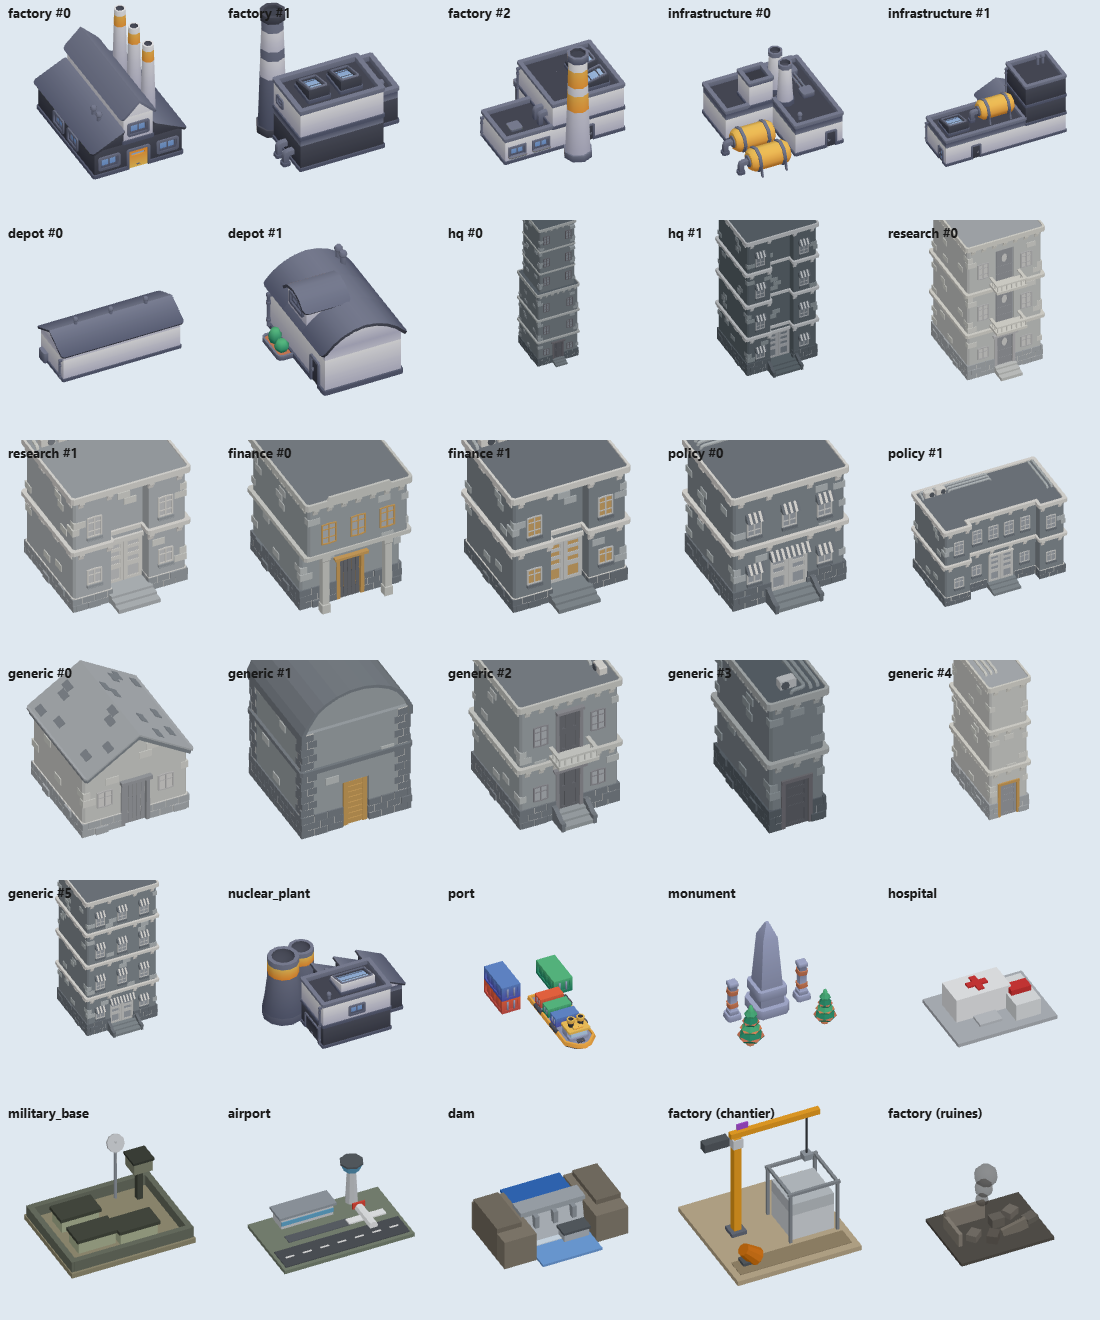
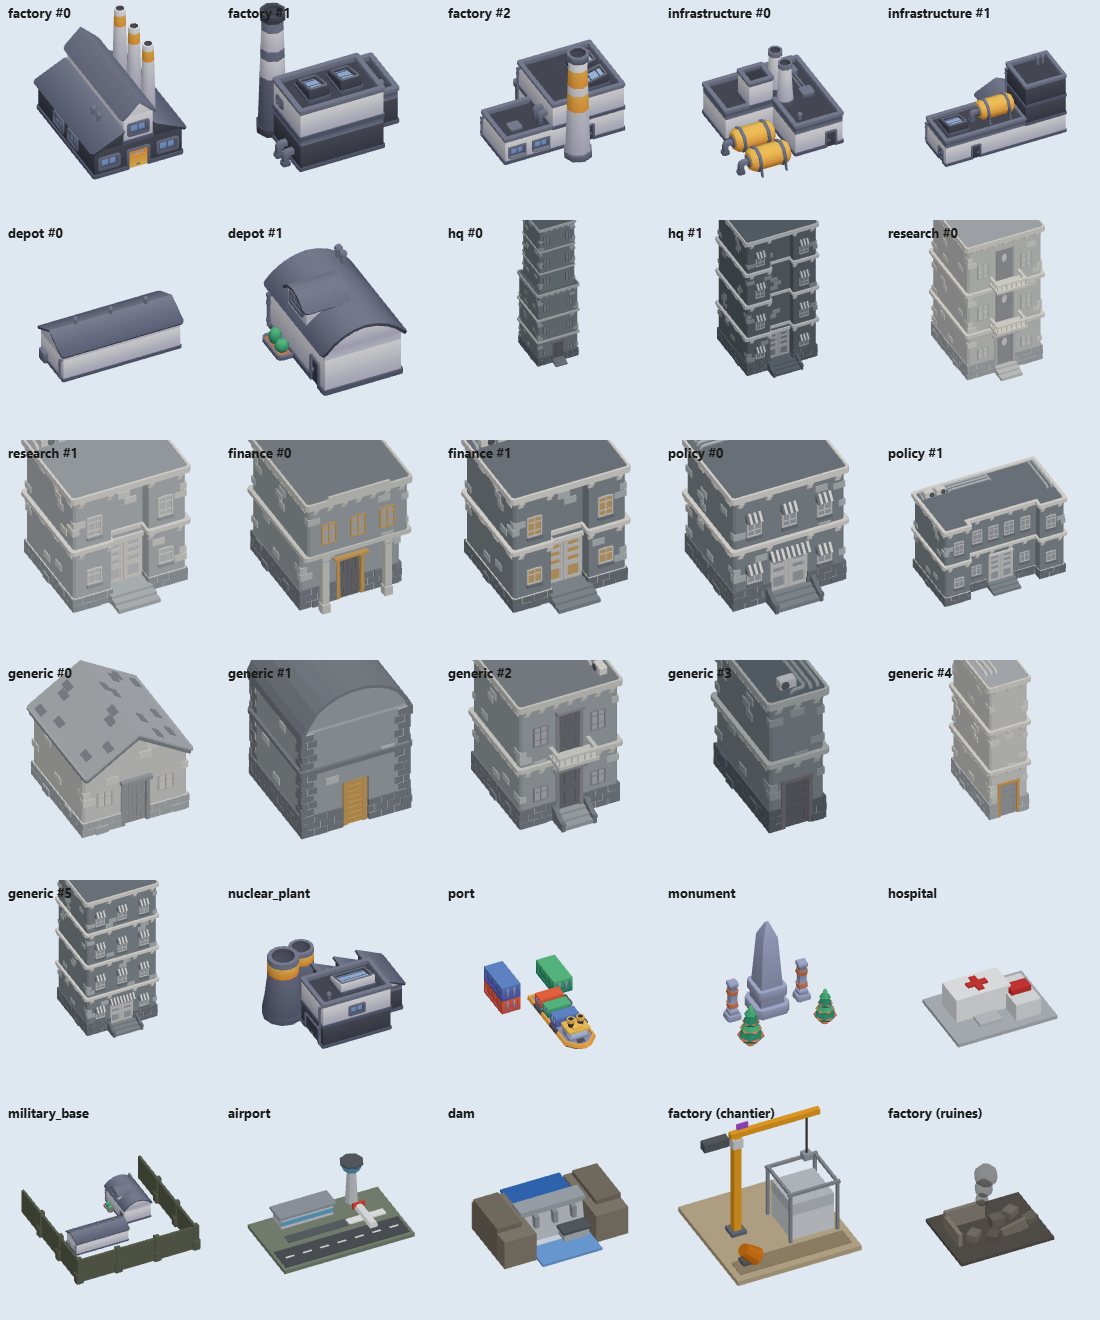
Base militaire composee : enceinte + hangars, 47 Ko
Le modele Sketchfab essaye avant ajoutait 1 Mo au bundle et sa simplification
bloquait a 17 400 triangles. Le meme effet s'obtient en composant des pieces
CC0 deja disponibles : fence-3x3 du City Kit (Suburban) pour le perimetre, plus
les deux hangars deja charges pour depot. C'est le mur d'enceinte qui fait lire
base - sans lui on ne voit que des entrepots.

La palissade sort du kit pavillonnaire, en bois orange : teintee en aplat
vert-de-gris via solidColor(), la multiplication de couleur ne suffisant pas
sur un modele texture.

Changed region(s): [[0.0, 0.8386, 0.1855, 0.9939]]

diff --git a/src/render3d/asset-models.ts b/src/render3d/asset-models.ts
@@ -50,9 +50,15 @@ import containerCGlb from './assets/kenney-container-c.glb';
 import obeliskGlb from './assets/kenney-obelisk.glb';
 import columnGlb from './assets/kenney-column.glb';
 import pineGlb from './assets/kenney-pine.glb';
+// Kenney — City Kit (Suburban) : l'enceinte de la base militaire. `fence-3x3`
+// est un périmètre carré complet en UN seul modèle (35 Ko) — c'est le mur qui
+// rend une base identifiable au premier coup d'œil, comme l'a montré l'essai
+// du modèle Sketchfab (abandonné, 1 Mo pour le même effet).
+import fenceCompoundGlb from './assets/kenney-fence-compound.glb';
 import colormapIndustrial from './assets/colormap-industrial.png';
 import colormapWatercraft from './assets/colormap-watercraft.png';
 import colormapGraveyard from './assets/colormap-graveyard.png';
+import colormapSuburban from './assets/colormap-suburban.png';
 
 // Quaternius — Ultimate Buildings Pack : bâtiments urbains.
 import bld1Glb from './assets/quaternius-bld-1story.glb';
@@ -69,7 +75,7 @@ import bld2CenterGlb from './assets/quaternius-bld-2story-center.glb';
 import bld2DoubleGlb from './assets/quaternius-bld-2story-double.glb';
 import bld2WideGlb from './assets/quaternius-bld-2story-wide.glb';
 
-type Kit = 'industrial' | 'watercraft' | 'graveyard' | 'quaternius';
+type Kit = 'industrial' | 'watercraft' | 'graveyard' | 'suburban' | 'quaternius';
 
 /**
  * Nombre de variantes par type, réparties par hash du seed. Un type absent
@@ -99,6 +105,8 @@ const KENNEY_MID = 0x8f959d;
 const KENNEY_DARK = 0x5d646e;
 /** Le jaune Kenney, à doser : accent sur UN matériau, jamais dominant. */
 const KENNEY_SAND = 0xe0b063;
+/** Vert-de-gris militaire — sert à l'enceinte de la base. */
+const OLIVE = 0x5e6552;
 
 /**
  * Rampes du plus SOMBRE au plus CLAIR. Chaque bâtiment porte plusieurs
@@ -155,6 +163,7 @@ const ASSET_TYPES = new Set<StructureType>([
   'port',
   'monument',
   'generic',
+  'military_base',
 ]);
 
 const templates = new Map<string, THREE.Group>();
@@ -283,6 +292,38 @@ function repaint(src: THREE.Group, paint: Paint, mix: number): THREE.Group {
   return copy;
 }
 
+/**
+ * Copie d'un template repeinte en APLAT : texture retirée, couleur imposée.
+ *
+ * Nécessaire quand un modèle vient d'un kit dont la palette jure. Teinter par
+ * multiplication (`repaint`) ne suffit pas dans ce cas : la couleur du matériau
+ * MULTIPLIE la texture, donc une palissade orange vire au brun foncé et jamais
+ * au vert-de-gris. Retirer la map donne un aplat propre — acceptable sur une
+ * géométrie simple, à éviter sur un bâtiment dont la texture porte le détail.
+ */
+function solidColor(src: THREE.Group, color: number): THREE.Group {
+  const copy = src.clone(true) as THREE.Group;
+  const cache = new Map<THREE.Material, THREE.Material>();
+  const flatten = (m: THREE.Material): THREE.Material => {
+    const hit = cache.get(m);
+    if (hit) return hit;
+    const c = m.clone() as THREE.MeshStandardMaterial;
+    c.map = null;
+    if (c.color) c.color.set(color);
+    c.needsUpdate = true; // sans ça le shader garde la texture
+    cache.set(m, c);
+    return c;
+  };
+  copy.traverse((child) => {
+    const mesh = child as THREE.Mesh;
+    if (!mesh.isMesh || !mesh.material) return;
+    const swapped = materialsOf(mesh).map(flatten);
+    mesh.material = Array.isArray(mesh.material) ? swapped : swapped[0]!;
+  });
+  markShared(copy);
+  return copy;
+}
+
 type Part = { key: string; scale: number; at: readonly [number, number, number] };
 
 /**
@@ -311,6 +352,7 @@ async function buildTemplates(): Promise<void> {
     industrial: loaderFor(colormapIndustrial),
     watercraft: loaderFor(colormapWatercraft),
     graveyard: loaderFor(colormapGraveyard),
+    suburban: loaderFor(colormapSuburban),
     quaternius: new GLTFLoader(),
   };
   const load = async (key: string, kit: Kit, bytes: Uint8Array) => {
@@ -357,6 +399,7 @@ async function buildTemplates(): Promise<void> {
     load('obelisk', 'graveyard', obeliskGlb),
     load('column', 'graveyard', columnGlb),
     load('pine', 'graveyard', pineGlb),
+    load('fence-compound', 'suburban', fenceCompoundGlb),
   ]);
 
   const failed = results.filter((r) => r.status === 'rejected');
@@ -377,6 +420,22 @@ async function buildTemplates(): Promise<void> {
     const tpl = templates.get(`generic-${v}`);
     if (tpl) templates.set(`generic-${v}`, repaint(tpl, paint, TINT_MIX));
   });
+
+  // L'enceinte sort du kit PAVILLONNAIRE : c'est une palissade en bois orange,
+  // qui faisait jardin de banlieue au milieu d'une carte grise. Teinte uniforme
+  // vers le vert-de-gris (rampe d'une seule couleur) pour qu'elle lise
+  // « militaire » et s'accorde au reste.
+  const fence = templates.get('fence-compound');
+  if (fence) templates.set('fence-compound', solidColor(fence, OLIVE));
+
+  // Base militaire : enceinte + deux hangars. C'est le PÉRIMÈTRE qui fait
+  // lire « base » — sans lui on ne voit que des entrepôts. Les hangars sont
+  // les templates de `depot`, réutilisés tels quels : rien à embarquer en plus.
+  compose('military_base', [
+    { key: 'fence-compound', scale: 1, at: [0, 0, 0] },
+    { key: 'depot-0', scale: 0.44, at: [-0.14, 0, 0.08] },
+    { key: 'depot-1', scale: 0.34, at: [0.22, 0, -0.18] },
+  ]);
 
   // Centrale nucléaire : complexe industriel + deux tours de refroidissement.
   compose('nuclear_plant', [

diff --git a/CREDITS.md b/CREDITS.md
@@ -5,17 +5,23 @@ embarqués dans `src/render3d/assets/` proviennent de tiers et gardent leur
 licence d'origine — toutes en **CC0 1.0 (domaine public)**, donc redistribuables
 sans condition. Ces crédits sont volontaires : ils ne sont pas exigés par le CC0.
 
+Aucun modèle sous **CC BY** n'est embarqué à ce jour. Si l'un venait à l'être,
+il faudrait créditer ici son auteur, lier la licence et signaler les
+modifications — l'attribution est alors une obligation, pas une politesse.
+
 ## Modèles 3D
 
 | Source | Kits utilisés | Licence |
 |---|---|---|
-| [Kenney](https://kenney.nl) | City Kit (Industrial), Watercraft Pack, Graveyard Kit | [CC0 1.0](https://creativecommons.org/publicdomain/zero/1.0/) |
+| [Kenney](https://kenney.nl) | City Kit (Industrial), City Kit (Suburban), Watercraft Pack, Graveyard Kit | [CC0 1.0](https://creativecommons.org/publicdomain/zero/1.0/) |
 | [Quaternius](https://quaternius.com) | Ultimate Buildings Pack | [CC0 1.0](https://creativecommons.org/publicdomain/zero/1.0/) |
 
-Les modèles ont été **modifiés** : conversion en `.glb`, optimisation
+Ces modèles ont été **modifiés** : conversion en `.glb`, optimisation
 (suppression des UV inutiles, quantification `KHR_mesh_quantization`),
-normalisation d'échelle, assemblage en modèles composites, et recoloration des
-bâtiments Quaternius sur la palette Kenney (voir `src/render3d/asset-models.ts`).
+normalisation d'échelle, assemblage en modèles composites, recoloration des
+bâtiments Quaternius sur la palette Kenney, et mise à plat de la palissade
+pavillonnaire en vert-de-gris pour la base militaire (voir
+`src/render3d/asset-models.ts`).
 
 ## Bibliothèques
 
@@ -28,11 +34,13 @@ bâtiments Quaternius sur la palette Kenney (voir `src/render3d/asset-models.ts`
 ## Non inclus dans ce dépôt
 
 Le dossier `assets-source/` (exclu par `.gitignore`) contient des archives de
-travail, dont **quatre modèles Sketchfab sous CC BY 4.0**. Ils ne sont **pas**
-embarqués dans l'extension et ne sont **pas** redistribués ici : la licence CC BY
-impose de créditer l'auteur, information dont nous ne disposons pas. Si l'un
-d'eux est intégré un jour, son auteur, un lien vers l'œuvre originale et la
-mention des modifications devront figurer ci-dessus.
+travail, dont **quatre modèles Sketchfab sous CC BY 4.0** (base militaire,
+hôpital, aéroport, barrage). Ils ne sont **pas** embarqués dans l'extension et ne
+sont **pas** redistribués ici. La base militaire a été essayée puis retirée : à
+elle seule elle ajoutait 1 Mo au bundle, sans que la simplification puisse
+descendre sous 17 400 triangles. Si l'un d'eux est intégré un jour, son auteur,
+un lien vers l'œuvre originale et la mention des modifications devront figurer
+plus haut.
 
 ## Données cartographiques
 

diff --git a/README.md b/README.md
@@ -105,7 +105,9 @@ Leçon générale : pour toute API interne du jeu, **vérifier l'effet, pas le r
   - **variantes par type** (`VARIANTS`) réparties par hash du seed, pour que deux structures du même type ne soient pas identiques : 6 génériques, 3 usines, 2 infrastructures / entrepôts / QG / recherche / finance / administratifs
   - **mise en peinture** (`TYPE_PAINT`, `GENERIC_PAINT`, `repaint()`) : les bâtiments Quaternius sortent tous du même vert-gris, qui jurait avec les modèles Kenney. On les ramène sur la **palette Kenney** — blanc cassé, gris clair, gris moyen, anthracite, plus un jaune d'accent. Chaque bâtiment porte 5 à 9 matériaux : ils sont classés par luminosité d'origine puis étalés le long d'une RAMPE, ce qui préserve les contrastes internes (toit sombre, murs clairs, corniches) au lieu d'aplatir le bâtiment en une couleur unie. Avec `accent`, le matériau le plus saturé du modèle — donc un détail, porte ou encadrement — passe au jaune. La rampe varie par type (`RAMP_LIGHT` recherche, `RAMP_DARK` QG, `RAMP_FULL` finance/administratif) pour garder un minimum de lisibilité sans casser l'harmonie. Les modèles Kenney ne sont pas repeints, ils sont déjà à la bonne palette
   - corollaire utile : deux types peuvent PARTAGER une forme sans se ressembler — `research-1` et `finance-1` sont le même maillage avec des rampes différentes, ce qui évite d'embarquer 111 Ko en double
-  - 3 types **composites** assemblés via `compose()` : centrale nucléaire (complexe + tours de refroidissement), port (porte-conteneurs + conteneurs empilés), monument (obélisque + colonnes + sapins). Si une pièce manque, le composite n'est pas créé → le type retombe sur son procédural plutôt que d'afficher un assemblage tronqué
+  - 4 types **composites** assemblés via `compose()` : centrale nucléaire (complexe + tours de refroidissement), port (porte-conteneurs + conteneurs empilés), monument (obélisque + colonnes + sapins), **base militaire** (enceinte + deux hangars — c'est le PÉRIMÈTRE qui fait lire « base », sans lui on ne voit que des entrepôts ; les hangars réutilisent les templates de `depot`, donc rien de plus à embarquer). Si une pièce manque, le composite n'est pas créé → le type retombe sur son procédural plutôt que d'afficher un assemblage tronqué
+  - `solidColor()` — repeint un modèle en **aplat**, texture retirée. Utilisé pour l'enceinte, tirée du kit pavillonnaire : une palissade en bois orange au milieu d'une carte grise. Teinter par multiplication (`repaint`) ne suffisait pas — la couleur du matériau MULTIPLIE la texture, donc l'orange virait au brun et jamais au vert-de-gris. À réserver aux géométries simples : sur un bâtiment, retirer la texture supprime le détail
+  - ⚠️ Un modèle Sketchfab de base militaire (CC BY) a été essayé puis **abandonné** : 1 Mo de bundle à lui seul, et la simplification bloquait à 17 400 triangles. Le composite ci-dessus obtient le même effet pour 47 Ko, sans obligation d'attribution
   - chargement en **`Promise.allSettled`** : un modèle illisible ne fait retomber QUE son type sur le procédural (un `Promise.all` les faisait tous tomber)
   - hauteur plafonnée, clones à ressources partagées (pas de dispose des géométries/matériaux communs — flag `paxSharedAsset`)
   - procéduraux conservés : aéroport, barrage, base militaire, hôpital, unité, chantier, ruines